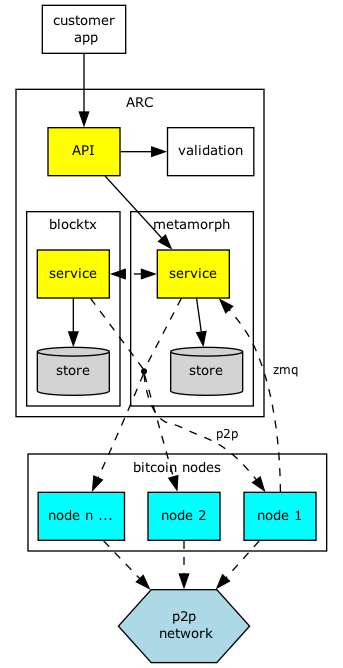
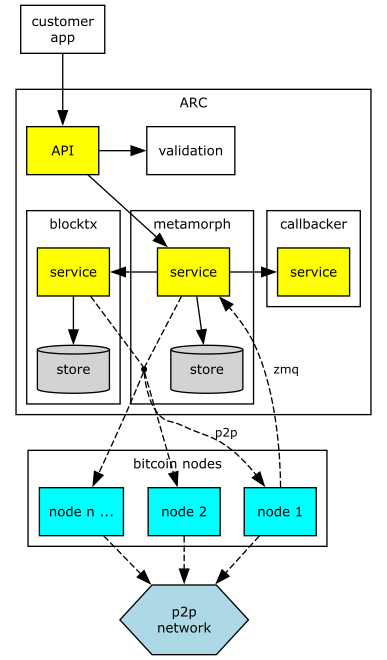
ARCO-175: document callbacker microservice

Changed region(s): [[0.0292, 0.0, 0.9621, 1.0]]

diff --git a/doc/README.md b/doc/README.md
@@ -11,7 +11,7 @@ possible to connect to a large number of nodes without incurring large bandwidth
 
 The ARC design decouples the core functions of a transaction processor and encapsulates them as microservices with the ability to scale horizontally adaptively. Interaction between microservices is decoupled using asynchronous messaging where possible.
 
-ARC consists of 3 core microservices: [API](#API), [Metamorph](#Metamorph) and [BlockTx](#BlockTx), which are all described below.
+ARC consists of 4 core microservices: [API](#API), [Metamorph](#Metamorph), [Callbacker](#Callbacker) and [BlockTx](#BlockTx), which are all described below.
 
 All the microservices are designed to be horizontally scalable, and can be deployed on a single machine or on multiple machines. Each one has been programmed with a store interface. The default store is postgres, but any database that implements the store interface can be used.
 
@@ -84,9 +84,9 @@ When possible, the API is responsible for rejecting transactions that would be u
 
 Metamorph is a microservice that is responsible for processing transactions sent by the API to the Bitcoin network. It takes care of re-sending transactions if they are not acknowledged by the network within a certain time period (60 seconds by default).
 
-#### Callbacks
+### Callbacker
 
-Metamorph also can send callbacks to a specified URL. To register a callback, the client must add the `X-CallbackUrl` header to the request. The callbacker will then send a POST request to the URL specified in the header, with the transaction ID in the body.
+Callbacker is a microservice that sends callbacks to a specified URL. To register a callback, the client must add the `X-CallbackUrl` header to the request. The callbacker will then send a POST request to the URL specified in the header, with the transaction ID in the body.
 
 The following example shows the format of a callback body
 

diff --git a/CHANGELOG.md b/CHANGELOG.md
@@ -4,6 +4,7 @@ All notable changes to this project will be documented in this file. The format 
 
 ## Table of Contents
 - [Unreleased](#unreleased)
+- [1.3.0](#130---2024-08-21)
 - [1.2.0](#120---2024-08-13)
 - [1.1.91](#1191---2024-06-26)
 - [1.1.87](#1187---2024-06-10)
@@ -16,6 +17,11 @@ All notable changes to this project will be documented in this file. The format 
 - [1.0.0 - YYYY-MM-DD](#100---yyyy-mm-dd)
 
 ## [Unreleased]
+
+## [1.3.0] - 2024-08-21
+
+### Changed
+- The functionality for callbacks has been moved from the `metamorph` microservice to the new `callbacker` microservice.
 
 ## [1.2.0] - 2024-08-13
 
